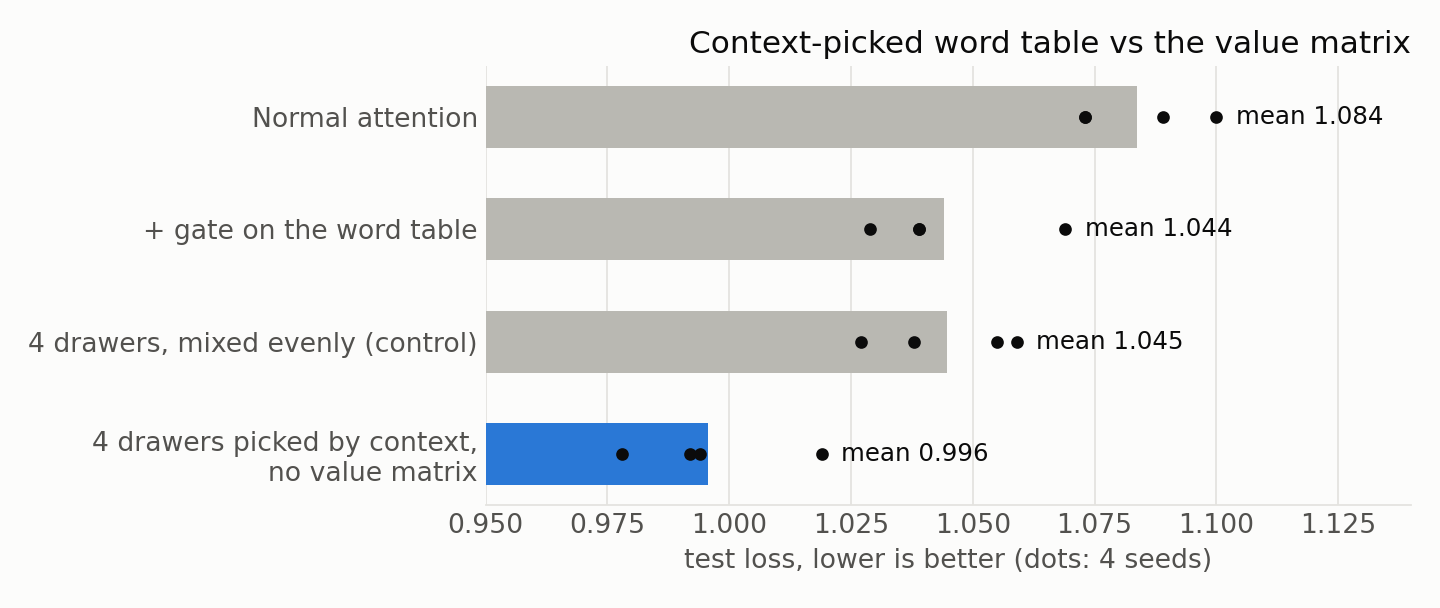
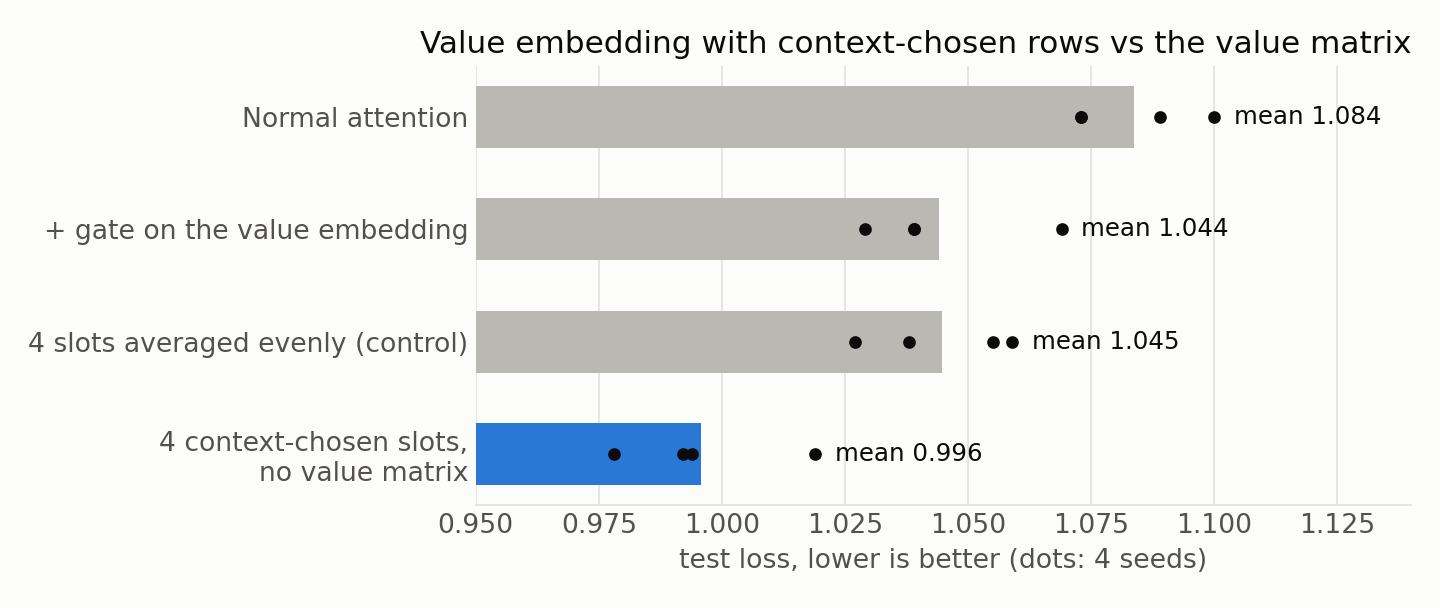
README: plain title, field terms (value embedding, slots) instead of invented words

diff --git a/chart.py b/chart.py
@@ -15,9 +15,9 @@ def clean(ax):
 
 # 1. the main result: four seeds per setup, realistic task suite, width 64
 rows = [("Normal attention", [1.073, 1.100, 1.073, 1.089], INK2),
-        ("+ gate on the word table", [1.039, 1.039, 1.029, 1.069], INK2),
-        ("4 drawers, mixed evenly (control)", [1.055, 1.059, 1.038, 1.027], INK2),
-        ("4 drawers picked by context,\nno value matrix", [1.019, 0.994, 0.978, 0.992], BLUE)]
+        ("+ gate on the value embedding", [1.039, 1.039, 1.029, 1.069], INK2),
+        ("4 slots averaged evenly (control)", [1.055, 1.059, 1.038, 1.027], INK2),
+        ("4 context-chosen slots,\nno value matrix", [1.019, 0.994, 0.978, 0.992], BLUE)]
 fig, ax = plt.subplots(figsize=(9, 3.8))
 for i, (name, v, c) in enumerate(rows[::-1]):
     m = sum(v) / len(v)
@@ -26,11 +26,11 @@ for i, (name, v, c) in enumerate(rows[::-1]):
     ax.text(max(v) + 0.004, i, f"mean {m:.3f}", color=INK, fontsize=11, va="center")
 ax.set_yticks(range(len(rows)), [r[0] for r in rows[::-1]]); ax.set_xlim(0.95, 1.14)
 ax.set_xlabel("test loss, lower is better (dots: 4 seeds)")
-ax.set_title("Context-picked word table vs the value matrix", loc="right", fontsize=14, color=INK)
+ax.set_title("Value embedding with context-chosen rows vs the value matrix", loc="right", fontsize=14, color=INK)
 clean(ax); ax.xaxis.grid(True, color=GRID); ax.set_axisbelow(True)
 fig.tight_layout(); fig.savefig("main_result.png", dpi=160); plt.close(fig)
 
-# 2. what the second-layer picker chooses, per task (share of positions whose top drawer is each one)
+# 2. what the second-layer picker chooses, per task (share of positions whose top slot is each one)
 tasks = [("copy a repeated part", [0.00, 0.00, 1.00, 0.00]), ("repeat the word 2 back", [0.00, 0.00, 0.99, 0.00]),
          ("key → value lookup", [0.00, 0.01, 0.98, 0.02]), ("sort words", [0.00, 0.12, 0.88, 0.00]),
          ("common fact", [0.00, 0.99, 0.01, 0.00]), ("look up, then common fact", [0.00, 1.00, 0.00, 0.00]),
@@ -43,13 +43,13 @@ for i, r in enumerate(M):
     for j, v in enumerate(r):
         if v >= 0.1: ax.text(j, i, f"{v:.0%}", ha="center", va="center", fontsize=10, color=SURF if v > 0.6 else INK)
 ax.set_yticks(range(len(tasks)), [t[0] for t in tasks])
-ax.set_xticks(range(4), ["drawer 1", "drawer 2", "drawer 3", "drawer 4"]); ax.xaxis.tick_top()
+ax.set_xticks(range(4), ["slot 1", "slot 2", "slot 3", "slot 4"]); ax.xaxis.tick_top()
 for y in (3.5, 6.5): ax.axhline(y, color=SURF, lw=3)
-ax.set_title("Second layer: which drawer each task opens", loc="left", fontsize=14, color=INK, pad=28)
+ax.set_title("Second layer: which slot each task uses", loc="left", fontsize=14, color=INK, pad=28)
 for s in ax.spines.values(): s.set_visible(False)
-ax.tick_params(length=0); fig.tight_layout(); fig.savefig("drawers.png", dpi=160); plt.close(fig)
+ax.tick_params(length=0); fig.tight_layout(); fig.savefig("slots.png", dpi=160); plt.close(fig)
 
-# 3. gain vs model width (mean loss change, context-picked drawers without value matrix minus normal attention)
+# 3. gain vs model width (mean loss change, context-picked slots without value matrix minus normal attention)
 w = ["64\n(4 seeds)", "128\n(4 seeds)", "256\n(2 seeds)"]; g = [-0.088, -0.021, 0.036]
 fig, ax = plt.subplots(figsize=(6.4, 3.4))
 ax.bar(range(3), g, width=0.55, color=[BLUE, BLUE, "#b9b8b2"])

diff --git a/RESULTS.md b/RESULTS.md
@@ -1,14 +1,14 @@
 # Results
 
-All runs: 2-layer transformer, width 64 unless stated, 2 heads, RoPE, QK-norm, SwiGLU, RMSNorm, gated attention, a word table added to the values (AdamW at 32× the base lr), Muon on the matrices, AdamW elsewhere. CPU, about 5 s per run.
+All runs: 2-layer transformer, width 64 unless stated, 2 heads, RoPE, QK-norm, SwiGLU, RMSNorm, gated attention, a value embedding added to the values (AdamW at 32× the base lr), Muon on the matrices, AdamW elsewhere. CPU, about 5 s per run.
 
 **Loss used:** the weighted test loss of the 7 base skills (lower is better). Two runs differing only in seed differ by about 0.02–0.03.
 
 **Knobs:**
-- `VE_GATE=1`: the word table is scaled per head by 2·sigmoid(W h), with W starting at zero.
-- `VE_SLOTS=k`: k drawers per word, mixed by softmax(W h) of the layer input.
-- `VS_FIX=1`: the drawers are mixed evenly, as a control.
-- `VS_L=1`: drawers only in the second layer.
+- `VE_GATE=1`: the value embedding is scaled per head by 2·sigmoid(W h), with W starting at zero.
+- `VE_SLOTS=k`: k slots per word, mixed by softmax(W h) of the layer input.
+- `VS_FIX=1`: the slots are mixed evenly, as a control.
+- `VS_L=1`: slots only in the second layer.
 - `FREEZE=v V_ZERO=1`: the value matrix is set to zero and kept there, so no value matrix.
 
 ## Main result: task suite, 400 steps, no mixture of experts
@@ -19,21 +19,21 @@ All runs: 2-layer transformer, width 64 unless stated, 2 heads, RoPE, QK-norm, S
 |---|---|---|---|---|---|
 | normal attention | 1.073 | 1.100 | 1.073 | 1.089 | 1.084 |
 | gate | 1.039 | 1.039 | 1.029 | 1.069 | 1.044 |
-| 4 drawers | 1.091 | 1.067 | 1.067 | 1.030 | 1.064 |
+| 4 slots | 1.091 | 1.067 | 1.067 | 1.030 | 1.064 |
 | gate, no value matrix | 1.069 | 1.047 | 1.044 | 1.059 | 1.055 |
-| 4 drawers, no value matrix | 1.053 | 1.030 | 1.047 | 1.020 | 1.038 |
-| gate + 4 drawers, value matrix kept | 1.005 | 1.016 | 0.992 | 0.998 | 1.003 |
-| **gate + 4 drawers, no value matrix** | 1.019 | 0.994 | 0.978 | 0.992 | **0.996** |
-| control: gate + 4 drawers mixed evenly, no value matrix | 1.055 | 1.059 | 1.038 | 1.027 | 1.045 |
-| gate + 2 drawers, no value matrix | 1.083 | 1.012 | 1.023 | 1.029 | 1.037 |
-| gate + 8 drawers, no value matrix | 1.001 | 0.983 | 1.016 | 0.991 | 0.998 |
-| gate + 4 drawers in layer 2 only, value matrix kept | 1.023 | 1.012 | 0.991 | 1.025 | 1.013 |
-| gate + 4 drawers in layer 2 only, no value matrix | 1.003 | 1.020 | 0.993 | 1.017 | 1.008 |
-| gate + 8 drawers in layer 2 only, value matrix kept | 1.050 | 1.017 | 0.988 | 1.013 | 1.017 |
+| 4 slots, no value matrix | 1.053 | 1.030 | 1.047 | 1.020 | 1.038 |
+| gate + 4 slots, value matrix kept | 1.005 | 1.016 | 0.992 | 0.998 | 1.003 |
+| **gate + 4 slots, no value matrix** | 1.019 | 0.994 | 0.978 | 0.992 | **0.996** |
+| control: gate + 4 slots mixed evenly, no value matrix | 1.055 | 1.059 | 1.038 | 1.027 | 1.045 |
+| gate + 2 slots, no value matrix | 1.083 | 1.012 | 1.023 | 1.029 | 1.037 |
+| gate + 8 slots, no value matrix | 1.001 | 0.983 | 1.016 | 0.991 | 0.998 |
+| gate + 4 slots in layer 2 only, value matrix kept | 1.023 | 1.012 | 0.991 | 1.025 | 1.013 |
+| gate + 4 slots in layer 2 only, no value matrix | 1.003 | 1.020 | 0.993 | 1.017 | 1.008 |
+| gate + 8 slots in layer 2 only, value matrix kept | 1.050 | 1.017 | 0.988 | 1.013 | 1.017 |
 
 - Most of the gain is on the rare-fact skill (loss about 1.1 → 0.3–0.5) and on sorting.
-- Once drawers are picked by context, the value matrix adds nothing (1.003 kept vs 0.996 removed, inside noise).
-- More than 4 drawers gives nothing more.
+- Once slots are picked by context, the value matrix adds nothing (1.003 kept vs 0.996 removed, inside noise).
+- More than 4 slots gives nothing more.
 
 ## Same test on the toy with a mixture of experts (8 experts, 260 steps)
 
@@ -42,22 +42,22 @@ All runs: 2-layer transformer, width 64 unless stated, 2 heads, RoPE, QK-norm, S
 | setup | s0 | s1 | s2 | s3 | mean |
 |---|---|---|---|---|---|
 | normal attention | 1.360 | 1.457 | 1.367 | 1.370 | 1.389 |
-| gate + 4 drawers, no value matrix | 1.297 | 1.337 | 1.320 | 1.307 | **1.315** |
-| control: drawers mixed evenly | 1.326 | 1.380 | 1.332 | 1.322 | 1.340 |
+| gate + 4 slots, no value matrix | 1.297 | 1.337 | 1.320 | 1.307 | **1.315** |
+| control: slots mixed evenly | 1.326 | 1.380 | 1.332 | 1.322 | 1.340 |
 | same extra weights as 3 more experts (`MOE=11`) | 1.380 | 1.442 | 1.375 | 1.404 | 1.400 |
 
-The 3 extra drawers per word are about 49k weights per layer, the size of about 3 experts.
+The 3 extra slots per word are about 49k weights per layer, the size of about 3 experts.
 
-## What the drawers hold
+## What the slots hold
 
 `cd toy && env [suite knobs] VE_GATE=1 VE_SLOTS=4 python3 sprobe.py 0 400` (suite knobs: as set in `suite_run.sh` and `toy.sh` with `MOE=0`)
 
-| layer | how sharp the pick is (top drawer weight) | same drawer every time for a given word | what decides the drawer |
+| layer | how sharp the pick is (top slot weight) | same slot every time for a given word | what decides the slot |
 |---|---|---|---|
 | 1 | 0.44 (soft) | 100% | only the word: the first layer has no context yet |
 | 2 | 0.83 (hard) | 68%, and 97% for a given word + task | the task |
 
-Second layer, share of positions whose top drawer is each drawer:
+Second layer, share of positions whose top slot is each slot:
 
 | task | d1 | d2 | d3 | d4 |
 |---|---|---|---|---|
@@ -79,20 +79,20 @@ Second layer, share of positions whose top drawer is each drawer:
 
 The `frel` task (`EXTRA=frel`) is [relation, subject, SEP] → the answer for that pair. `FREL` sets the number of relations per subject and `NF` the number of subjects. Every row below has 256 facts. Setup: gate, value matrix kept, 3 seeds. Cells show frel loss (accuracy):
 
-| layout | 1 drawer | 4 drawers | 16 drawers | 16 drawers mixed evenly |
+| layout | 1 slot | 4 slots | 16 slots | 16 slots mixed evenly |
 |---|---|---|---|---|
 | 64 words × 4 meanings | 1.14 (0.74) | 0.86 (0.83) | 0.96 (0.78) | |
 | 16 words × 16 meanings | 1.70 (0.63) | 1.48 (0.67) | 1.83 (0.56) | |
 | 256 words × 1 meaning | 0.38 (0.92) | 0.11 (0.97) | 0.05 (0.99) | 0.40 (0.93) |
 
-- The guess "drawers = meanings per word" is wrong. Words with 16 meanings gain little, and words with one meaning gain the most.
-- With 256 subjects, every word is both something to copy and a fact subject, which is the case the drawers serve.
+- The guess "slots = meanings per word" is wrong. Words with 16 meanings gain little, and words with one meaning gain the most.
+- With 256 subjects, every word is both something to copy and a fact subject, which is the case the slots serve.
 
 ## Width
 
 lr is 0.028 at every width and was not retuned.
 
-| width | normal attention | gate + 4 drawers, no value matrix | change |
+| width | normal attention | gate + 4 slots, no value matrix | change |
 |---|---|---|---|
 | 64 (4 seeds) | 1.084 | 0.996 | −0.088 |
 | 128 (4 seeds) | 1.027 / 1.068 / 1.045 / 1.060 = 1.050 | 1.047 / 1.010 / 1.043 / 1.017 = 1.029 | −0.021 |
@@ -100,13 +100,13 @@ lr is 0.028 at every width and was not retuned.
 | 256, value matrix kept | | 1.061 / 1.069 | none |
 | 256, 256 facts (`NF=256`) | 1.371 / 1.386 | 1.391 / 1.397 | loss on all tasks 1.40 → 1.28 |
 
-- At width 256 the normal model already holds the 64 facts, so there is nothing for the drawers to add.
-- With 256 facts, the drawers help facts again: look-up-then-fact accuracy goes 0.06 → 0.65 and 0.34 → 0.62.
+- At width 256 the normal model already holds the 64 facts, so there is nothing for the slots to add.
+- With 256 facts, the slots help facts again: look-up-then-fact accuracy goes 0.06 → 0.65 and 0.34 → 0.62.
 - With no value matrix at width 256, key → value lookup got worse in 2 of 4 runs (loss 1.61 and 1.51, against at most 0.69 with the value matrix kept).
 
 Width 256 with 256 facts, gate, value matrix kept, loss on all tasks (2 seeds):
 
-| drawers | seed 0 | seed 1 |
+| slots | seed 0 | seed 1 |
 |---|---|---|
 | none (normal attention) | 1.449 | 1.352 |
 | 1 | 1.273 | 1.287 |
@@ -114,11 +114,11 @@ Width 256 with 256 facts, gate, value matrix kept, loss on all tasks (2 seeds):
 | 8 | 1.514 | 1.214 |
 | 16 | 1.161 | 1.011 |
 
-Too noisy to choose a drawer count at this width.
+Too noisy to choose a slot count at this width.
 
 ## Literature
 
-- MoME, arXiv 2609.15126: gate + top-2 of M drawers per word, added on top of the value matrix; about 0.002 bpb better than a plain word table at equal size on nanochat. It never removes the value matrix.
-- Bank of Values, arXiv 2606.02780: word tables replace the values in the last third of layers, 135M and 780M models.
-- Memory Attention, arXiv 2609.28399: value = key + word table, with no value matrix and one row per word. It estimates a 50% cache saving but does not measure it.
-- nanochat: a word table with a sigmoid gate from the layer input.
+- MoME, arXiv 2609.15126: gate + top-2 of M slots per word, added on top of the value matrix; about 0.002 bpb better than a plain value embedding at equal size on nanochat. It never removes the value matrix.
+- Bank of Values, arXiv 2606.02780: value embeddings replace the values in the last third of layers, 135M and 780M models.
+- Memory Attention, arXiv 2609.28399: value = key + value embedding, with no value matrix and one row per word. It estimates a 50% cache saving but does not measure it.
+- nanochat: a value embedding with a sigmoid gate from the layer input.

diff --git a/README.md b/README.md
@@ -1,74 +1,87 @@
-# Attention can drop its value matrix if each word gets a few "drawers"
+# Attention works without its value matrix when the value embedding has several rows per token, chosen by context
 
-**In a small transformer, I replaced the attention value matrix with a word table that has 4 drawers per word, and the context picks the drawer. The model learned better than normal attention on every seed.**
+**In a small transformer, I removed the attention value matrix and kept only a value embedding with 4 rows per token, where the layer input picks which row to use. It learned better than normal attention on all 4 seeds.**
 
-![Context-picked word table vs the value matrix](main_result.png)
+![Value embedding with context-chosen rows vs the value matrix](main_result.png)
 
 ## The idea in plain words
 
-When a word looks back at earlier words, attention copies a message from each earlier word. That message is called the **value**.
+When a token looks back at earlier tokens, attention copies a vector from each earlier token. That vector is called the **value**.
 
-Normally the value is computed by a matrix (the **value matrix**) from what the model knows about that earlier word at that moment.
+Normally the value comes from the **value matrix**: it turns what the model knows about the earlier token at that moment into the vector that gets copied.
 
-Some recent models (modded-nanogpt, nanochat) also add a **word table**: every word in the vocabulary has its own learned vector, and that vector is added to the value. It is a dictionary: look up the word, get its stored message.
+Recent models (modded-nanogpt, nanochat) add a **value embedding**: a learned table with one vector per token in the vocabulary, added to the value. It works like a dictionary: look up the token, get its stored vector.
 
-I asked: if the dictionary is good enough, do we need the value matrix at all?
+My question: if the value embedding is good enough, is the value matrix needed at all?
 
 ## What I changed
 
-1. **Gate:** the model can turn the dictionary message up or down for each word, depending on the sentence (nanochat does this).
-2. **Drawers:** each word gets 4 stored messages instead of 1, and the sentence picks which one to open (the MoME paper does this).
-3. **No value matrix:** the value is now only the dictionary message.
+1. **Gate:** depending on the sentence, the model can scale the value embedding up or down for each token (nanochat does this).
+2. **Slots:** each token gets 4 rows in the value embedding instead of 1, and the layer input picks which row to use. The MoME paper calls these rows slots.
+3. **No value matrix:** the value is now only the chosen value-embedding row.
 
-The bars above show that all three together give the lowest loss: 0.996 against 1.084 for normal attention, better on all 4 seeds.
+All three together give the lowest loss in the chart above: 0.996 against 1.084 for normal attention, better on all 4 seeds.
 
-The control matters: with 4 drawers that are mixed evenly instead of picked, half the gain is gone. The gain comes from picking, not from having more numbers.
+The control shows why it works. When the 4 slots are averaged evenly instead of chosen, half the gain is gone, so the gain comes from choosing a row, not from having more weights.
 
-I also tried a version of the toy whose feed-forward part is a mixture of experts. There the drawers gained too (1.389 → 1.315, all 4 seeds), while spending the same number of extra weights on 3 more experts gave nothing (1.400).
+I also tried a version of the toy whose feed-forward part is a mixture of experts. The slots helped there too (1.389 → 1.315, all 4 seeds). Spending the same number of extra weights on 3 more experts gave nothing (1.400).
 
-## What the drawers learn
+## What each slot learns
 
-I trained the model and then looked at which drawer the second layer opens for each task.
+I trained the model and then checked which slot the second layer picks for each task.
 
-![Second layer: which drawer each task opens](drawers.png)
+![Second layer: which slot each task uses](slots.png)
 
-Each drawer holds a different kind of fact about a word:
+Each slot holds a different kind of information about a token:
 
-- **Drawer 3** is "the word itself". Every task that copies a word uses it.
-- **Drawer 2** is the word's common fact. Both tasks that ask that fact use it.
-- **Drawer 4** is the word's rare fact.
-- **Drawer 1** is used for guessing the next word of text and for counting.
+- **Slot 3** is the token itself. Every task that copies a token uses it.
+- **Slot 2** is the token's common fact. Both tasks that ask for that fact use it.
+- **Slot 4** is the token's rare fact.
+- **Slot 1** is used for predicting the next word of text and for counting.
 
-So the task decides which drawer opens. A word that is copied in one sentence and asked about in another can keep both answers ready.
+So the task decides the slot. A token that is copied in one sentence and asked about in another keeps both answers ready.
 
-The first layer cannot do this: at that point the model has not read the sentence yet, so its drawer choice is fixed per word. Drawers only in the second layer keep almost all the gain with half the extra weights.
+The first layer cannot do this. Its input is only the token, before any context is read, so its slot choice is fixed per token. Slots in the second layer alone keep almost all the gain with half the extra weights.
 
 ## Where it stops working
 
 ![The gain shrinks as the model gets wider](width.png)
 
-The gain comes from extra memory for facts. A wider model already has room for all 64 facts in this toy, so the gain shrinks with width and is gone at width 256.
+The gain comes from extra memory for facts. A wider model already has room for all 64 facts in this toy, so the gain shrinks as width grows and is gone at width 256.
 
-When I gave the width-256 model 256 facts, the drawers helped facts again, but with no value matrix it got worse at "key → value" lookup in 2 of 4 runs.
+When I gave the width-256 model 256 facts, slots helped with facts again. Without the value matrix, though, it got worse at key → value lookup in 2 of 4 runs.
 
-**So for big models my guess is: keep the value matrix and add context-picked drawers, only in layers after the first.** At width 256 I have only 2 seeds, so this is not settled.
+**My guess for large models: keep the value matrix and add context-chosen slots, only in layers after the first.** Width 256 has only 2 seeds, so this is not settled.
 
 ## Is this new?
 
-Mostly no. Each piece exists:
+Mostly no. Each piece already exists:
 
-- Several context-picked drawers per word, added on top of the value matrix: [MoME (arXiv 2609.15126)](https://arxiv.org/abs/2609.15126). They keep the value matrix.
-- Word tables that replace the value matrix: [Bank of Values (arXiv 2606.02780)](https://arxiv.org/abs/2606.02780), in the last third of layers, and [Memory Attention (arXiv 2609.28399)](https://arxiv.org/abs/2609.28399), which uses the key plus a word table.
-- The gated word table: [nanochat](https://github.com/karpathy/nanochat/discussions/481).
+- [MoME (arXiv 2609.15126)](https://arxiv.org/abs/2609.15126) adds context-chosen slots on top of the value matrix, which it keeps.
+- [Bank of Values (arXiv 2606.02780)](https://arxiv.org/abs/2606.02780) replaces the values with a value embedding in the last third of layers.
+- [Memory Attention (arXiv 2609.28399)](https://arxiv.org/abs/2609.28399) replaces the value matrix with key plus value embedding.
+- [nanochat](https://github.com/karpathy/nanochat/discussions/481) uses a gated value embedding.
 
-What I did not find published: context-picked drawers with no value matrix in every layer, the measurement of what each drawer holds, and the result that the first layer's drawers do nothing.
+I found no published work on these three points:
+
+- context-chosen slots with no value matrix in every layer;
+- a measurement of what each slot holds;
+- the result that slots in the first layer do nothing.
 
 ## The toy
 
-A 2-layer transformer, width 64, trained for about 5 seconds on a MacBook CPU. It learns 13 small tasks mixed in one stream, as a language model does: next-word guessing in text, copying, facts, key → value lookup, sorting, counting, and multi-step tasks such as "look up a key, then recall that subject's fact".
+A 2-layer transformer of width 64, trained for about 5 seconds on a MacBook CPU. Like a language model, it learns 13 small tasks mixed into one stream:
+
+- predicting the next word of text;
+- copying;
+- facts;
+- key → value lookup;
+- sorting;
+- counting;
+- multi-step tasks, such as "look up a key, then recall that subject's fact".
 
 ---
 
-- [RESULTS.md](RESULTS.md): every number, all controls, and the command for each run
-- [toy/](toy/): the model and task code
-- [chart.py](chart.py): draws the three charts
+- [RESULTS.md](RESULTS.md) has every number, all controls and the command for each run.
+- [toy/](toy/) has the model and task code.
+- [chart.py](chart.py) draws the three charts.
